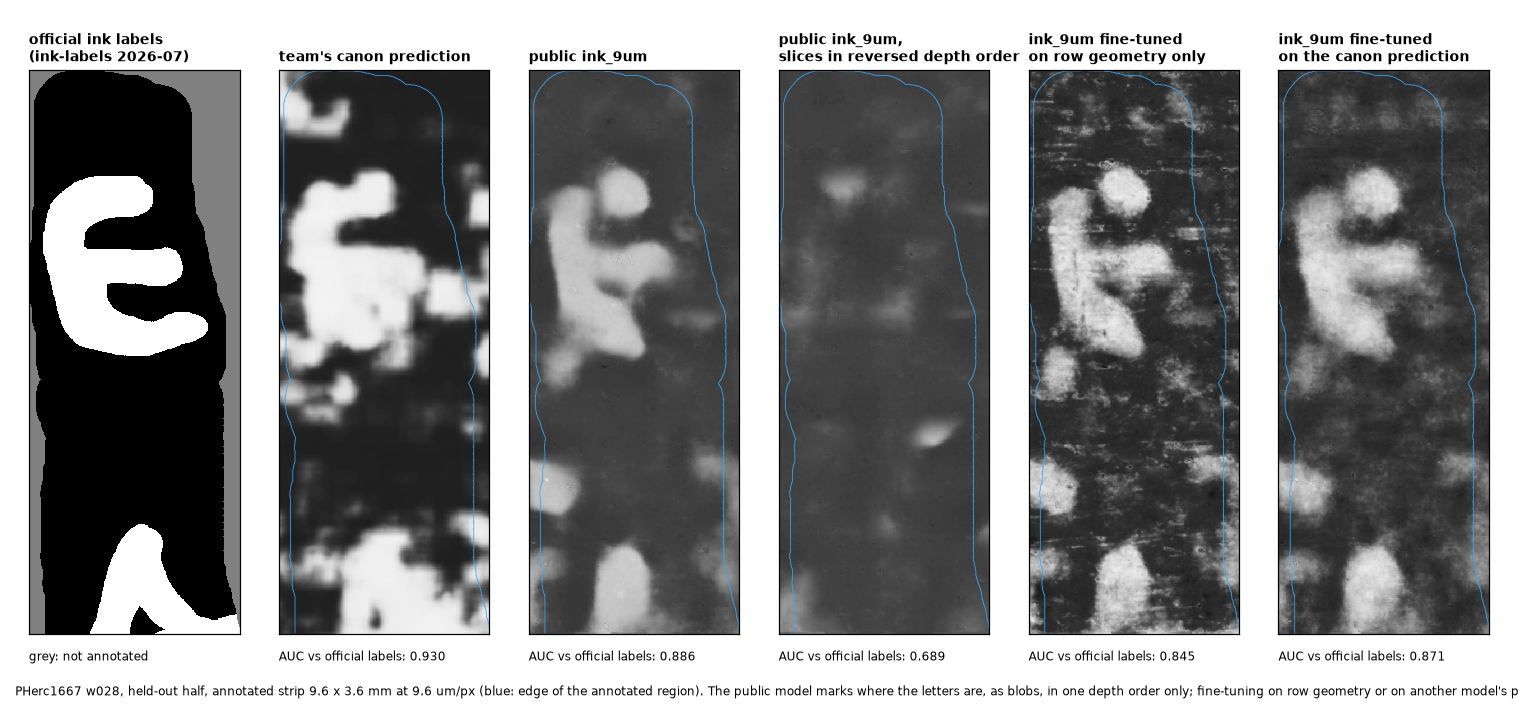
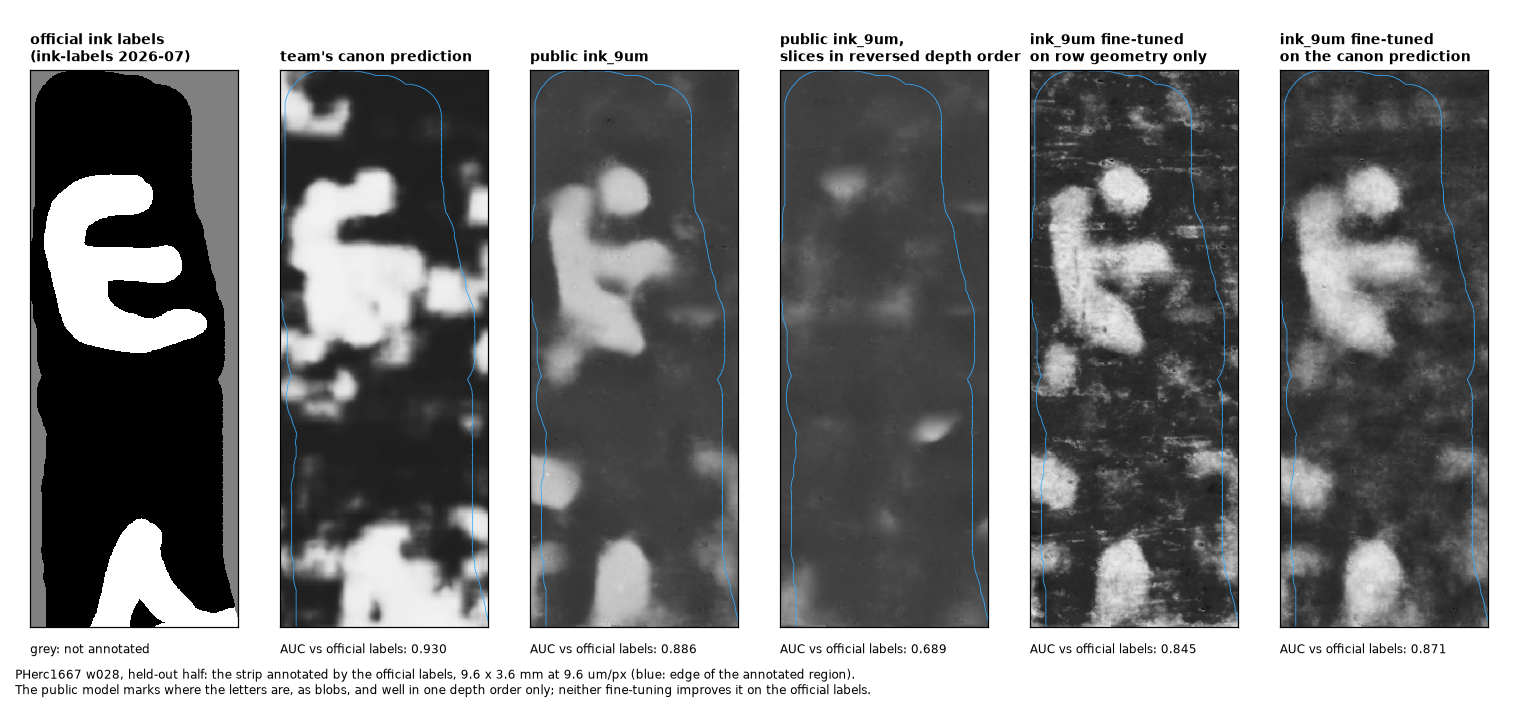
Review fixes before the September submission; MIT LICENSE file
- submission: claims narrowed after an independent review (what the official-label
  control shows, one crop, 0.29 cm² of labels, -0.015 within noise, depth windows
  per segment, window scorings vs positions, what is new)
- mechanism_finetune_1667.py: the loss analysis behind the 13.6 % and the
  scale/region tables is now a committed script
- build_mil_1667.py derives the canon reference from the committed pipeline
- results.md / README: v0.8 score, PHerc1447 coverage, eligible list
- figure caption no longer truncated

diff --git a/docs/experiments/mechanism_finetune_1667.py b/docs/experiments/mechanism_finetune_1667.py
@@ -1,0 +1,69 @@
+"""Where the geometry-guided fine-tuning loses AUC (docs/mil_finetune_pherc1667.md, "Where the loss comes from").
+
+    python3 docs/experiments/mechanism_finetune_1667.py
+
+Needs work/mil_1667/mil_1667_w028.npz (docs/experiments/build_mil_1667.py) and the saved test-half probability
+maps of the two Kaggle fine-tuning runs (work/ft_kaggle/ft_t4, work/ft_kaggle/ft_l2sp).  Independent of the
+training script.  The reference here is the team's canon prediction (ink if >= 128), because the training half
+has no official labels; canon over-marks ink relative to them (35.6 % vs 23.8 % on the labelled pixels).
+
+Prints: the share of canon ink among the "certain negative" (interline) pixels of the training strip, for the
+truth-free and the oracle bands; the share of test-half ink inside oracle interlines; pixel AUC at five pooling
+scales; AUC by region (row bands / interlines / mixed cells, oracle bands, 38 um cells); mean |Laplacian| of the
+maps on ink and on background.
+"""
+from pathlib import Path
+
+import numpy as np
+from scipy.ndimage import laplace
+from sklearn.metrics import roc_auc_score
+
+ROOT = Path(__file__).resolve().parents[2]
+SPLIT, TRAIN_X = 1400, 1144          # held-out half starts at x = 1400; fine-tuning trained on x < 1144
+MAPS = {
+    "baseline": "work/ft_kaggle/ft_t4/baseline_prob_test.npy",
+    "mil_free + distillation": "work/ft_kaggle/ft_t4/mil_free_prob_test.npy",
+    "mil_free, no distillation": "work/ft_kaggle/ft_l2sp/mil_free_prob_test.npy",
+    "mil_oracle + distillation": "work/ft_kaggle/ft_t4/mil_oracle_prob_test.npy",
+    "mil_oracle, no distillation": "work/ft_kaggle/ft_l2sp/mil_oracle_prob_test.npy",
+    "supervised on canon": "work/ft_kaggle/ft_t4/supervised_prob_test.npy",
+}
+
+
+def pool(a, k):
+    h, w = a.shape[0] // k * k, a.shape[1] // k * k
+    return a[:h, :w].reshape(h // k, k, w // k, k).mean(axis=(1, 3))
+
+
+d = np.load(ROOT / "work/mil_1667/mil_1667_w028.npz")
+ink = d["truth"] >= 128
+bands = {"truth-free (from ink_9um)": d["bands_free"], "oracle (from canon)": d["bands_oracle"]}
+for name, b in bands.items():
+    inter = np.broadcast_to((b == 0)[:, None], (b.size, TRAIN_X))
+    rows = np.broadcast_to((b == 1)[:, None], (b.size, TRAIN_X))
+    print(f"{name:26s} canon ink in interline pixels (x < {TRAIN_X}): {ink[:, :TRAIN_X][inter].mean():.3f}, "
+          f"in row bands: {ink[:, :TRAIN_X][rows].mean():.3f}")
+t = ink[:, SPLIT:]
+print(f"test half: share of canon ink inside oracle interlines {t[d['bands_oracle'] == 0].sum() / t.sum():.3f}")
+
+M = {n: np.load(ROOT / p).astype(np.float32) for n, p in MAPS.items()}
+print("\npixel AUC vs canon by pooling scale")
+for k in (2, 4, 8, 16, 32):
+    tp = pool(t.astype(np.float32), k) >= 0.5
+    print(f"  {k * 9.596:6.1f} um", {n: round(roc_auc_score(tp.ravel(), pool(m, k).ravel()), 3) for n, m in M.items()})
+
+print("\nAUC by region, oracle bands, 38 um cells")
+tp = pool(t.astype(np.float32), 4) >= 0.5
+b = d["bands_oracle"][: tp.shape[0] * 4].reshape(tp.shape[0], 4)
+regions = {"rows": (b == 1).all(1), "interlines": (b == 0).all(1)}
+regions["mixed"] = ~(regions["rows"] | regions["interlines"])
+for n, m in M.items():
+    pm = pool(m, 4)
+    print(f"  {n:28s}", {r: round(roc_auc_score(tp[np.broadcast_to(sel[:, None], tp.shape)],
+                                                  pm[np.broadcast_to(sel[:, None], tp.shape)]), 3)
+                          for r, sel in regions.items()})
+
+print("\nmean |Laplacian| on canon ink / background")
+for n, m in M.items():
+    lap = np.abs(laplace(m.astype(np.float64)))
+    print(f"  {n:28s} ink {lap[t].mean():.4f}  background {lap[~t].mean():.4f}")

diff --git a/docs/experiments/eval_official_labels_1667.py b/docs/experiments/eval_official_labels_1667.py
@@ -11,11 +11,16 @@ ink-detection work to be evaluated on its public ink-labels dataset, which has w
       (37852 x 30583 at 2.4 um, binary)
 
 Alignment.  The label canvas (37852 x 30583) differs from the Data Browser `flatboi` surface volume
-(37420 x 30340) that the crop was cut from, by a translation.  It is found in two steps and checked
-for sharpness: (1) cross-correlation of the labels with the canon ds8 preview inside the supervision
-mask; (2) refinement inside the crop at 9.6 um by maximising the public ink_9um map's AUC against the
-labels.  The optimum must be interior and fall off in every direction (it does: 0.886 at the
-optimum, 0.864 at 16 px, 0.80 at 32 px).
+(37420 x 30340) that the crop was cut from, by a translation.  A cross-correlation of the labels with
+the canon ds8 preview (done once, by hand) gave the search window used here; this script then grid-
+searches the offset inside it at 9.6 um by maximising the public ink_9um map's AUC against the labels,
+and checks that the optimum is interior and falls off in every direction (0.886 at the optimum, 0.880
+at 8 px, 0.864 at 16 px, 0.80 at 32 px).  Because the offset is fitted on that map, its 0.886 is a
+best case; the other maps are scored at the same offset.
+
+Maps.  The maps scored are the ones listed in MAPS below: 2000 x 2800 maps of this crop, or 2000 x 1400
+maps of its held-out half.  To score a new map of the crop, add it to MAPS.  The inputs come from
+build_control_pherc1667.py (crop, canon preview, Kaggle ink_9um runs) and build_mil_1667.py.
 
 Evaluation.  Pixel AUC at 9.6 um, and at 38 um (4x4 cells at least half supervised), inside the
 official supervision mask, on the held-out half of the crop (x >= 1400).  In this crop the

diff --git a/docs/experiments/build_mil_1667.py b/docs/experiments/build_mil_1667.py
@@ -6,7 +6,8 @@
 Inputs (produced earlier):
   work/kaggle_1667_w028/1667_render/w028_crop_render.zarr   27 slices, 9.596 µm in x, y and z
                                                             (built by build_control_pherc1667.py)
-  work/ctrl_1667/truth_canon_9um.npy                        team's canon prediction, upsampled to the same grid
+  work/kaggle_1667_w028/w028_crop_pred_canon.png            team's canon prediction (ds8 preview crop, 19.2 µm;
+                                                            build_control_pherc1667.py), upsampled 2x to the same grid
   data/1667_ctrl/w028_crop_s43_d5.tif                       public ink_9um prediction on the crop (Kaggle run)
 Output:
   work/mil_1667/mil_1667_w028.npz with stack, truth, ink9um, bands_oracle, bands_free, meta.
@@ -26,6 +27,7 @@ import warnings
 import numpy as np
 import tifffile
 import zarr
+from PIL import Image
 from scipy.ndimage import gaussian_filter
 
 warnings.filterwarnings("ignore")
@@ -41,7 +43,8 @@ def bands_from_profile(prof: np.ndarray, hi: float = 60, lo: float = 30, sigma: 
 
 def main() -> int:
     stack = np.asarray(zarr.open("work/kaggle_1667_w028/1667_render/w028_crop_render.zarr", mode="r")["0"])
-    truth = np.load("work/ctrl_1667/truth_canon_9um.npy").astype(np.uint8)
+    canon = np.asarray(Image.open("work/kaggle_1667_w028/w028_crop_pred_canon.png").convert("L"))
+    truth = np.kron(canon, np.ones((2, 2), np.uint8))   # = the work/ctrl_1667/truth_canon_9um.npy used so far
     ink = tifffile.imread("data/1667_ctrl/w028_crop_s43_d5.tif")
     H, W = truth.shape
     assert stack.shape[1:] == (H, W) == ink.shape

diff --git a/docs/experiments/fig_control_1667.py b/docs/experiments/fig_control_1667.py
@@ -56,11 +56,11 @@ def main() -> int:
     for ax in axes:
         ax.set_xticks([]), ax.set_yticks([])
     h, w = shown.shape
-    fig.suptitle(f"PHerc1667 w028, held-out half, annotated strip {h * 0.0096:.1f} x {w * 0.0096:.1f} mm at 9.6 um/px "
-                 f"(blue: edge of the annotated region). The public model marks where the letters are, as blobs, in one depth order only; "
-                 f"fine-tuning on row geometry or on another model's prediction makes it worse.",
+    fig.suptitle(f"PHerc1667 w028, held-out half: the strip annotated by the official labels, {h * 0.0096:.1f} x {w * 0.0096:.1f} mm "
+                 f"at 9.6 um/px (blue: edge of the annotated region).\nThe public model marks where the letters are, as blobs, "
+                 f"and well in one depth order only; neither fine-tuning improves it on the official labels.",
                  fontsize=8, x=0.01, y=0.008, ha="left", va="bottom")
-    fig.subplots_adjust(left=0.01, right=0.99, top=0.9, bottom=0.1, wspace=0.05)
+    fig.subplots_adjust(left=0.01, right=0.99, top=0.9, bottom=0.11, wspace=0.05)
     out = ROOT / "docs" / "img" / "control_and_finetune_1667.png"
     fig.savefig(out, dpi=110)
     print("wrote", out.relative_to(ROOT), f"strip {h}x{w} px")

diff --git a/docs/submission/september_2026.md b/docs/submission/september_2026.md
@@ -1,21 +1,23 @@
 ScrollScout, September 2026: the eligible-scroll map, a positive control on the official ink labels, and a negative test of geometry supervision
-https://github.com/FrankTheRope/scrollscout/tree/progress-2026-09 · MIT
+https://github.com/FrankTheRope/scrollscout/tree/progress-2026-09b · MIT
 
-In short: ScrollScout ranks 10 mm windows of an ink prediction by how much they look like writing (line periodicity, gated on plausible ink coverage), on CPU, seconds per segment, so a person looks at the most writing-like places first. It ranks; it does not read. This month I used it to run and rank every public segment of the Grand-Prize-eligible scrolls but one, measured on the official ink labels why nothing showed up, and tested a new idea for ink detection on unread scrolls: it failed, for a measured reason.
+In short: ScrollScout ranks windows of an ink prediction (10 mm in this work) by how much they look like writing (line periodicity, gated on plausible ink coverage), on CPU, seconds per segment, so a person looks at the most writing-like places first. It ranks; it does not read. This month I ranked ink predictions for every public segment of the Grand-Prize-eligible scrolls but one (three are too small for a 10 mm window); checked on the official ink labels of a read scroll (PHerc1667) what such a negative is worth; and tested a new idea for ink detection on unread scrolls, which failed on the one crop tried, with a likely mechanism measured.
 
-1. The eligible-scroll map. My own ink_9um runs (two seeds, three depth windows, both depth orders) on 14 of PHerc1447's 15 named segments (11 rendered locally), on all 22 PHerc1203 meshes at the model's native 9.362 µm (no ink prediction of this scroll was public before), and on PHerc0800's 6 segments (5 large enough to score, default depth only); plus a screening of the team's gp/s5/tracer_ft predictions on 22 raw PHerc1447 meshes. Over 550 predictions, about 100 000 scored windows. No window where independent runs agree on writing-like structure and the eye confirms it; the strongest candidates are shown with the runs side by side. Not yet run: the PHerc1447 z_dbg_gen_00320 surface volume. Lesson: rotating ±45° to catch tilted writing also aligns fibre bundles with the detector (on PHerc1203 every seed-supported window sat at the fibre angle).
+The form's four questions, briefly. (1) Scroll data: PHerc1447, PHerc1203 and PHerc0800 (every public segment but one); PHerc1667 w028 with the public ink-labels 2026-07; PHerc0139 w035 as the text reference. (2) How it helps reading: it shows on real data where the public ink model stands on the eligible scrolls (nothing writing-like anywhere) and how to read that: on known text on another scroll the same model finds the letters only as blobs, so these negatives cannot be read as "no ink". It reports a clean negative, on one crop, for one tempting shortcut (writing geometry as the only supervision). And it flags two traps that silently corrupt results: local renders that come out in reversed depth order, and gains measured against another model's prediction. (3) New: ink_9um predictions of all 22 PHerc1203 meshes, a scroll with no published ink prediction (scores and previews in the docs; the prediction files are not redistributed and regenerate from the scripts); the translation between the official w028 label canvas and the Data Browser surface volume, so maps of my w028 crop can be scored on the official labels; an importable ink_9um inference module and a guarded fine-tuning harness for the public checkpoint, both run on a free Kaggle T4. (4) Evidence: docs/results.md indexes one page per experiment, each with its data paths and the script behind its numbers (the PHerc0800 table has no script yet); figures in docs/img; the repository is pinned at tag progress-2026-09b.
 
-2. A positive control on the public ink-labels (2026-07). On a text-dense crop of PHerc1667 w028 (2.4 µm volume resampled to 9.6 µm), public ink_9um (one seed, central depth window) reaches pixel AUC 0.886 against the official labels in their validation region, which lies in my held-out half; the team's canon prediction reaches 0.930. It draws blobs where the letters are, not glyphs, and with the same slices in reversed depth order it falls to 0.689. So the eligible-scroll negatives mean "the model sees dimly", not "there is no ink".
+1. The eligible-scroll map. My own ink_9um runs (two seeds, both depth orders; three depth windows except on the pre-rendered PHerc1447 segments 235910 and 034159, default window only) on 14 of PHerc1447's 15 named segments (11 rendered locally), on all 22 PHerc1203 meshes at the model's native 9.362 µm, and on PHerc0800's 6 segments (5 large enough to score, default depth only); plus a screening of the team's gp/s5/tracer_ft predictions on 22 raw PHerc1447 meshes. Over 550 predictions, about 100 000 window scorings (each window position scored once per prediction and rotation). No window where independent runs agree on writing-like structure and the eye confirms it; the strongest candidates are shown with the runs side by side. Not yet run: the PHerc1447 z_dbg_gen_00320 surface volume. Lesson: rotating ±45° to catch tilted writing also aligns fibre bundles with the detector (on PHerc1203 every window both seeds supported sat at the fibre angle).
 
-3. Writing geometry as the only supervision: negative on this crop. Interline gaps as certain negatives, row bands as positive bags. Trained from scratch on 2.6 cm²: AUC 0.51 on the official labels, i.e. chance. Used to fine-tune ink_9um: worse in all four configurations (0.800–0.845 against 0.886). The cause, measured against the canon prediction because the training half has no official labels: 13.6 % of the "certain negative" pixels are ink (ascenders, descenders, rows off the profile), and the AUC loss is largest in the interlines. More training area was not tried.
+2. A positive control on the public ink-labels (2026-07). On a text-dense 27 × 19 mm crop of PHerc1667 w028 (2.4 µm volume resampled to 9.6 µm), public ink_9um (one seed, central depth window) reaches pixel AUC 0.886 against the official labels in their validation region, which lies in the half of the crop kept out of all training (the label offset was fitted on this map; 8 px away it gives 0.880). The team's published prediction of w028 ("canon" below) reaches 0.930. ink_9um draws blobs where the letters are, not glyphs, and with the same slices in reversed depth order it falls to 0.689. So the eligible-scroll negatives cannot be read as "there is no ink".
 
-4. Two method lessons. (a) Fine-tuning toward another model's predictions moves toward that model, not toward the ink: trained on the canon prediction, ink_9um gained 0.020 against canon and lost 0.015 against the official labels. (b) A truth-free guard that the loss optimises is blind: with self-distillation on, the guard measured the very agreement the distillation enforced, and stayed green while a truth diagnostic fell from 0.58 to 0.51. With distillation off the guard fired and rolled back, yet the resumed run ended as the worst model of the study.
+3. Writing geometry as the only supervision: negative on this crop. Interline gaps as certain negatives, row bands as positive bags. Trained from scratch on 2.6 cm²: AUC 0.51 on the official labels, i.e. chance. Used to fine-tune ink_9um: worse in all four configurations (row bands from ink_9um or from canon, with or without distillation): 0.800–0.845 against 0.886. Likely mechanism, measured against canon because the training half has no official labels: canon marks 13.6 % of the truth-free arm's "certain negative" pixels as ink (ascenders, descenders, rows off the profile; canon over-marks ink, so the true share is lower), and in the truth-free arms the AUC loss is two to three times larger outside the row bands than inside. One seed per configuration; more training area was not tried.
 
-5. Reusable pieces. ink9um_api.py: villa's ink_9um inference as a small module (correlation 0.99998 with villa's own output). mil_finetune_ink9um.py: a fine-tuning harness for the public checkpoint with trust region, L2-SP, distillation and bootstrap-calibrated guards with rollback. eval_official_labels_1667.py: aligns the w028 label canvas to the Data Browser surface volume (a translation) and scores any map on it. vc_render_tifxyz built without Ceres, after a pointer from Paul (VC team); warning: the local render stack comes out in reversed depth order relative to the official surface volume. Free-Kaggle recipes.
+4. Two method lessons. (a) A gain scored against another model's prediction is not a gain in ink detection: trained on canon, ink_9um gained 0.020 against canon on the held-out half, but on the labelled pixels it gained 0.006 against canon and nothing on the official labels (−0.015, block-bootstrap 95 % interval −0.032 to +0.005). (b) A truth-free guard that the loss optimises is blind: with self-distillation on, the guard measured the very agreement the distillation enforced, and stayed green for all 400 steps while the model lost 0.041 AUC on the official labels (0.886 → 0.845). With distillation off the guard fired and rolled back, yet the resumed run ended as the worst of the fine-tuned models (0.800).
 
-Corrections, dated in the docs. villa's "reverse" direction is the same slices in reversed depth order, not the other face of the sheet; my earlier reading of it as a written-side test is withdrawn. So is my earlier claim that "13 cm² of true labels" improve ink_9um: those labels were the canon prediction, and the area was 2.1 cm².
+5. Reusable pieces (scripts in docs/experiments/). ink9um_api.py: villa's ink_9um inference as an importable module (villa ships it as a command-line script; correlation 0.99998 with its output). mil_finetune_ink9um.py: a fine-tuning harness for the public checkpoint with trust region, L2-SP, distillation and bootstrap-calibrated guards with rollback. eval_official_labels_1667.py: the label-canvas offset and the scoring of maps of the w028 crop. mechanism_finetune_1667.py: the loss analysis above. vc_render_tifxyz built without Ceres, after a pointer from Paul (VC team), in docs/RENDERING.md; warning: the local render stack comes out in reversed depth order relative to the official surface volume. Free-Kaggle recipes: kaggle_ink9um_sweep.sh, KAGGLE_mil_finetune.md.
 
-Limits. One seed per configuration, one crop; the official labels cover 11 % of the held-out half.
+Corrections. Two claims withdrawn, with dated notes in the docs. villa's "reverse" direction is the same slices in reversed depth order, not the other face of the sheet, so my reading of it as a written-side test is withdrawn (I re-checked villa's code after a Discord remark from Sean of the segmentation team). And my claim that "13 cm² of true labels" improve ink_9um is withdrawn: those labels were the canon prediction, and the area was 2.1 cm². Also corrected before this submission: the from-scratch training area (2.6 cm², not 13), the render check (0.998 holds for the central slice only) and PHerc1447's coverage (14 of 15 named segments).
+
+Limits. One seed per configuration, one crop; every official-label number rests on 0.29 cm² (a 9.6 × 3.6 mm strip, about one and a half letters, 11 % of the held-out half).
 
 Images: docs/img/control_and_finetune_1667.png, docs/img/sweep_1203_candidates.png, docs/img/gallery_w035.png.
-Every number with the script behind it, on one page: docs/results.md.
+Headline numbers, each linked to its document and script: docs/results.md.

diff --git a/docs/mil_finetune_pherc1667.md b/docs/mil_finetune_pherc1667.md
@@ -61,7 +61,7 @@ cells), fixed in two rounds and re-verified. Kaggle cells:
 4. **The guards behaved correctly** — and that exposes their limit. No clip, no
    rollback, every agreement dip correctly read as monitor noise (e.g.
    agreement 0.922, gap 0.028 against a bootstrap spread of 0.046). But the
-   truth diagnostic on the held-out strip, which no guard reads, fell from 0.58
+   truth diagnostic (AUC against the canon prediction) on the held-out strip, which no guard reads, fell from 0.58
    to 0.51 over the `mil_free` run while every truth-free signal stayed green.
    On an unread scroll this degradation would have been invisible.
 
@@ -73,8 +73,9 @@ on that same prediction (≥ 128), not on human labels. The Challenge asks
 ink-detection work to be evaluated on its public `ink-labels` (2026-07)
 dataset, which has w028. Aligned to the crop (sharp interior optimum, see
 `docs/experiments/eval_official_labels_1667.py`), its validation region covers
-11.2 % of the held-out half and none of the training half: 314 804 pixels,
-23.8 % ink. Same pixels, two references:
+11.2 % of the held-out half and none of the training half: 314 804 pixels
+(0.29 cm², a 9.6 × 3.6 mm strip holding about one and a half letters), 23.8 % ink.
+The label offset was fitted by maximising the baseline's AUC; 8 px away it gives 0.880. Same pixels, two references:
 
 | map | vs official labels | vs canon prediction |
 |---|---|---|
@@ -87,7 +88,9 @@ dataset, which has w028. Aligned to the crop (sharp interior optimum, see
 
 **The "+0.020 with labels" result does not survive.** On the same pixels, the
 arm trained on the canon prediction moves slightly toward it (+0.006) and
-away from the official labels (−0.015). The canon model marks 35.6 % of these
+away from the official labels (−0.015; one seed on a small strip: a block
+bootstrap over 0.6 mm blocks puts the 95 % interval at −0.032 to +0.005, so
+the honest reading is *no gain*, not a proven loss). The canon model marks 35.6 % of these
 pixels as ink where the official labels mark 23.8 %; fine-tuning taught
 `ink_9um` to imitate that bias, not to see ink better. This experiment never
 had human labels in training, so it says nothing about whether a few cm² of
@@ -139,14 +142,14 @@ would have let that loss fall faster; it did not.
    On this crop the idea is negative; more training area was not tried.
 2. **Fine-tuning toward another model's predictions moves toward that model, not
    toward the ink.** Trained on the canon prediction, `ink_9um` agrees a little
-   more with canon and less with the official labels (−0.015). The earlier claim
+   more with canon and shows no gain on the official labels (−0.015, interval −0.032 to +0.005). The earlier claim
    that about 2 cm² of labels (the 11.0 × 19.2 mm training strip) improve the public model rested on scoring against the
    training reference; it is withdrawn. Whether a few cm² of *human* labels help
    is not tested here.
 3. **A truth-free guard is only as good as its independence from the loss.**
    In the first run the guard measured teacher/student agreement on interline
    pixels, and the distillation term enforced exactly that agreement — so the
-   guard was blind by construction and stayed green while the truth diagnostic
+   guard was blind by construction and stayed green while the truth diagnostic (AUC against canon)
    fell from 0.58 to 0.51. With distillation removed, the same guard fired in
    both geometry arms. In the truth-free arm it fired once and rolled training
    back to the pristine weights, but the resumed run still ended as the worst
@@ -162,7 +165,8 @@ would have let that loss fall faster; it did not.
 
 The MIL maps look *sharper* than the public model's — the central glyph has crisp
 edges — so the first worry was that the metric, whose truth is itself a smooth
-model prediction, penalises sharpness. It does not. Every number below is
+model prediction, penalises sharpness. It does not. Every number below comes from
+`docs/experiments/mechanism_finetune_1667.py` and is
 recomputed from the saved probability maps with code independent of the
 training script (all seven maps reproduce the script's AUCs to four decimals).
 
@@ -171,7 +175,7 @@ training script (all seven maps reproduce the script's AUCs to four decimals).
 | map | 19 µm | 38 µm | 77 µm | 154 µm | 307 µm |
 |---|---|---|---|---|---|
 | baseline | 0.772 | 0.771 | 0.773 | 0.777 | 0.785 |
-| `mil_free`, with distillation | 0.738 | 0.738 | 0.742 | 0.752 | 0.770 |
+| `mil_free`, with distillation | 0.738 | 0.738 | 0.742 | 0.752 | 0.769 |
 | `mil_free`, without | 0.711 | 0.710 | 0.715 | 0.726 | 0.750 |
 | supervised | 0.792 | 0.791 | 0.793 | 0.800 | 0.807 |
 
@@ -181,7 +185,7 @@ energy (mean |Laplacian|) of the MIL maps doubles on ink *and* on background
 (0.012 → 0.027 on ink, 0.011 → 0.024 on background); the fine decoder layers,
 which drifted most, learned fibre texture along with stroke edges.
 
-**2. The loss is concentrated where the geometry claimed certainty.** AUC by
+**2. In the truth-free arms, the loss is concentrated outside the row bands.** AUC by
 region of the test half (oracle bands):
 
 | map | row bands | interlines | mixed |
@@ -189,12 +193,20 @@ region of the test half (oracle bands):
 | baseline | 0.762 | 0.768 | 0.772 |
 | `mil_free`, with distillation | 0.747 (−0.016) | **0.716 (−0.053)** | 0.729 (−0.043) |
 | `mil_free`, without | 0.725 (−0.037) | **0.695 (−0.074)** | 0.692 (−0.080) |
+| `mil_oracle`, with distillation | 0.760 (−0.002) | 0.756 (−0.012) | 0.738 (−0.034) |
+| `mil_oracle`, without | 0.762 (0.000) | 0.767 (−0.001) | 0.741 (−0.031) |
 | supervised | 0.786 | 0.788 | 0.788 |
+
+In the truth-free arms the interline and mixed cells lose two to three times
+more than the row bands; in the oracle-band arms, whose negatives are cleaner
+(7.1 % ink), the interlines barely move and the loss sits in the mixed cells.
 
 **3. The "certain negatives" are not certain.** In the training half, **13.6 % of
 the pixels the truth-free arm labelled as certain negatives are ink** (7.1 % with
 the oracle bands), and in the test half **20 % of all ink lies inside interline
-bands**: ascenders and descenders, and rows that do not sit where the row profile
+bands**. "Ink" here is the canon prediction, the only reference on the training
+half; it over-marks ink (35.6 % of the labelled pixels against 23.8 % in the
+official labels), so the true shares are lower. The contaminating ink is ascenders and descenders, and rows that do not sit where the row profile
 says. The premise of the idea — interlinear gaps are guaranteed ink-free —
 holds for a row profile but not at the pixel level for this hand. A loss that
 treats one negative in seven as certain teaches the detector to suppress a

diff --git a/docs/results.md b/docs/results.md
@@ -7,7 +7,8 @@ repository run on public Vesuvius Challenge data.*
 ## What the tool is
 
 ScrollScout does not detect letters. It measures whether an ink prediction is
-**geometrically credible as writing**, and ranks 4 cm² windows accordingly, so
+**geometrically credible as writing**, and ranks windows accordingly (4 cm² by
+default; 10 mm windows in the September 2026 experiments), so
 that a human — or a GPU budget — is spent on the most promising regions first.
 CPU-only, no training, classical signal processing on top of the public
 `ink_9um` models.
@@ -105,11 +106,16 @@ and is fetched from the public bucket by the commands shown.
 
 - **Five real segments** is a small sample. `anisotropy` earns its place on a
   0.89-vs-0.61 gap that one more scroll could erase.
-- **PHerc0139, PHerc1447, PHerc0800 and PHerc1203** have been examined this way —
-  every eligible scroll that has public segments. The other ten have none.
-- The PHerc1447 negative concerns **three segments out of fifteen**, one depth
-  window, two seeds, one checkpoint. It does not say the scroll has no ink — it
+- **PHerc1447, PHerc0800 and PHerc1203** — every eligible scroll that has public
+  segments — have been examined this way; the other ten have none. PHerc0139
+  (not eligible, text already found) is the text reference.
+- The PHerc1447 negative covers **14 of its 15 named segments** (three depth
+  windows on 12, the default window on the pre-rendered 235910 and 034159), two
+  seeds, one checkpoint, plus the team's predictions on 22 raw meshes; the eleven
+  locally rendered meshes are poor. It does not say the scroll has no ink — it
   says these models, on these segments, show none.
+- Every official-label number on PHerc1667 rests on one 0.29 cm² strip (about
+  one and a half letters) and one seed per configuration.
 - `line_periodicity` needs several consecutive lines inside a window, so
   partially recovered text and sparse annotations are underestimated. On the
   hand-made labels the score drops to 0.22–0.53 for exactly this reason.

diff --git a/README.md b/README.md
@@ -73,8 +73,8 @@ stroke, then:
 
 | sub-score | weight | what it measures |
 |---|---|---|
-| `line_periodicity` | 4 | prominence of the dominant row-projection period inside the expected line-pitch range, over 3 vertical strips (coherence-weighted) and 7 tilt angles |
-| `anisotropy` | 1 | row periodicity vs column periodicity: lines are horizontal bands |
+| `line_periodicity` | 1 (the only vote since v0.8) | prominence of the dominant row-projection period inside the expected line-pitch range, over 3 vertical strips (coherence-weighted) and 7 tilt angles |
+| `anisotropy` | 0 (dropped in v0.8: no effect on six annotated segments) | row periodicity vs column periodicity: lines are horizontal bands |
 | `ink_fraction` | gate | multiplicative veto for implausible coverage (empty windows, smears) — not a ranking term |
 | `stroke_shape` | 0 | computed and reported; its sign is not stable across data types |
 
@@ -84,12 +84,13 @@ The weights were **measured, not chosen**: see
 0.22-0.28 at the 95th percentile), while `stroke_shape` inverts on real data and
 `ink_fraction` takes a single distinct value across 440 windows.
 
-Final score = weighted geometric mean of the voting sub-scores, multiplied by
-the ink gate.
+Final score (v0.8) = `line_periodicity` multiplied by the ink gate.
 
 **Operating threshold:** a window above 0.6 on a prediction is a candidate;
-below 0.5 is background. Measured separation of the final score (95th
-percentile): text 0.972-0.973, raw papyrus 0.136-0.297.
+below 0.5 is background. Measured separation of the v0.8 score (95th
+percentile): text predictions 1.00 against raw papyrus renders 0.10-0.26, and
+0.97-0.99 against 0.36-0.64 with predictions on both sides
+([results](docs/results.md)).
 
 ## Limits (read before trusting a number)
 

diff --git a/docs/positive_control_pherc1667.md b/docs/positive_control_pherc1667.md
@@ -79,9 +79,11 @@ measures shared structure, not ink.
 
 **Against the official labels.** The public `ink-labels` (2026-07) dataset has
 w028. Aligned to the crop, its validation region (11.2 % of the held-out half,
-23.8 % ink) gives a sharper picture than the canon prediction: `ink_9um`
-forward **0.886**, reversed depth order **0.689**, and the canon prediction
-itself 0.930 (`docs/experiments/eval_official_labels_1667.py`). On the annotated
+23.8 % ink; 0.29 cm², about one and a half letters) gives a sharper picture
+than the canon prediction: `ink_9um` forward **0.886**, reversed depth order
+**0.689**, and the canon prediction itself 0.930
+(`docs/experiments/eval_official_labels_1667.py`). The label offset was fitted
+by maximising the forward map's AUC; 8 px away it still gives 0.880. On the annotated
 part of this segment the public model transfers better than the canon-based
 0.76 suggested; it still draws no legible glyph at 9.6 µm.
 

diff --git a/docs/pherc1447_auto_sweep.md b/docs/pherc1447_auto_sweep.md
@@ -49,7 +49,8 @@ crosses the sheet at an angle. Two consequences for the scoring:
 So this is a weaker negative than the one on the three pre-rendered segments:
 same models, same answer, but on meshes that a better segmentation would
 replace. Together the two runs cover fourteen of the fifteen named segments of
-the scroll at three depths, two seeds, both directions; the fifteenth, the
+the scroll with two seeds and both directions, at three depths except on the
+pre-rendered 235910 and 034159 (default depth only); the fifteenth, the
 `z_dbg_gen_00320` surface volume, is not yet run.
 
 ## Reproducing
